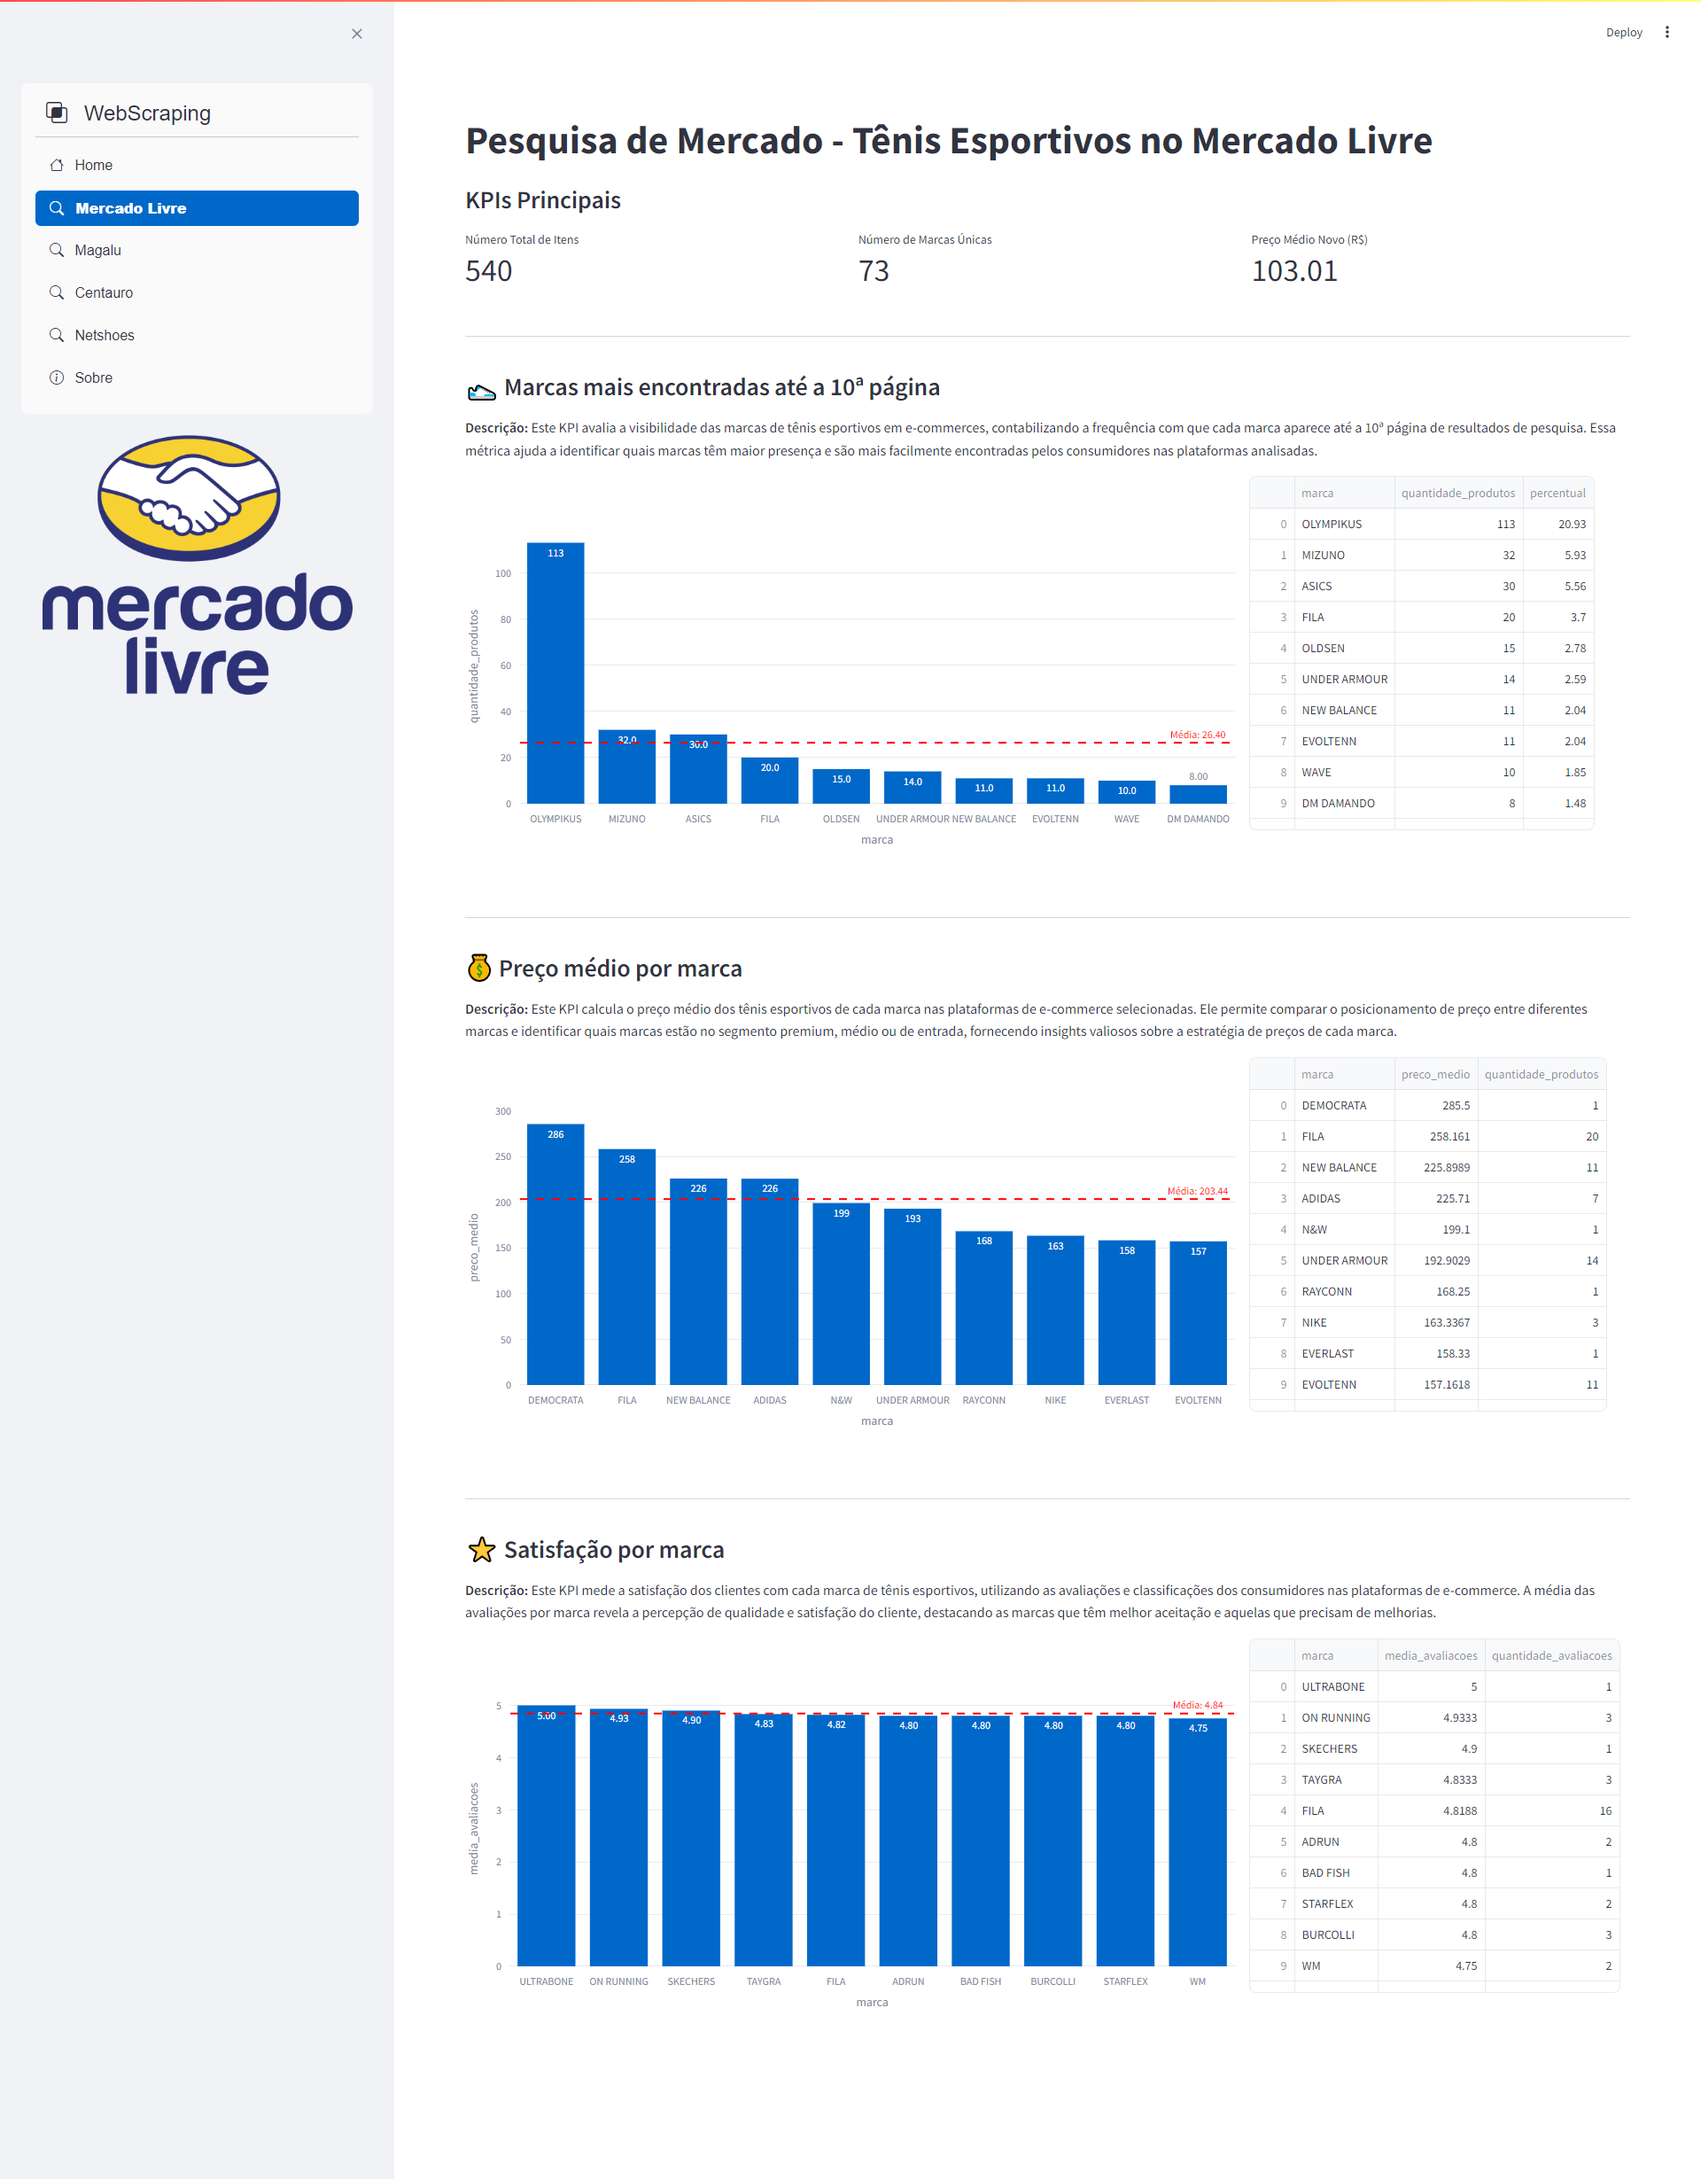
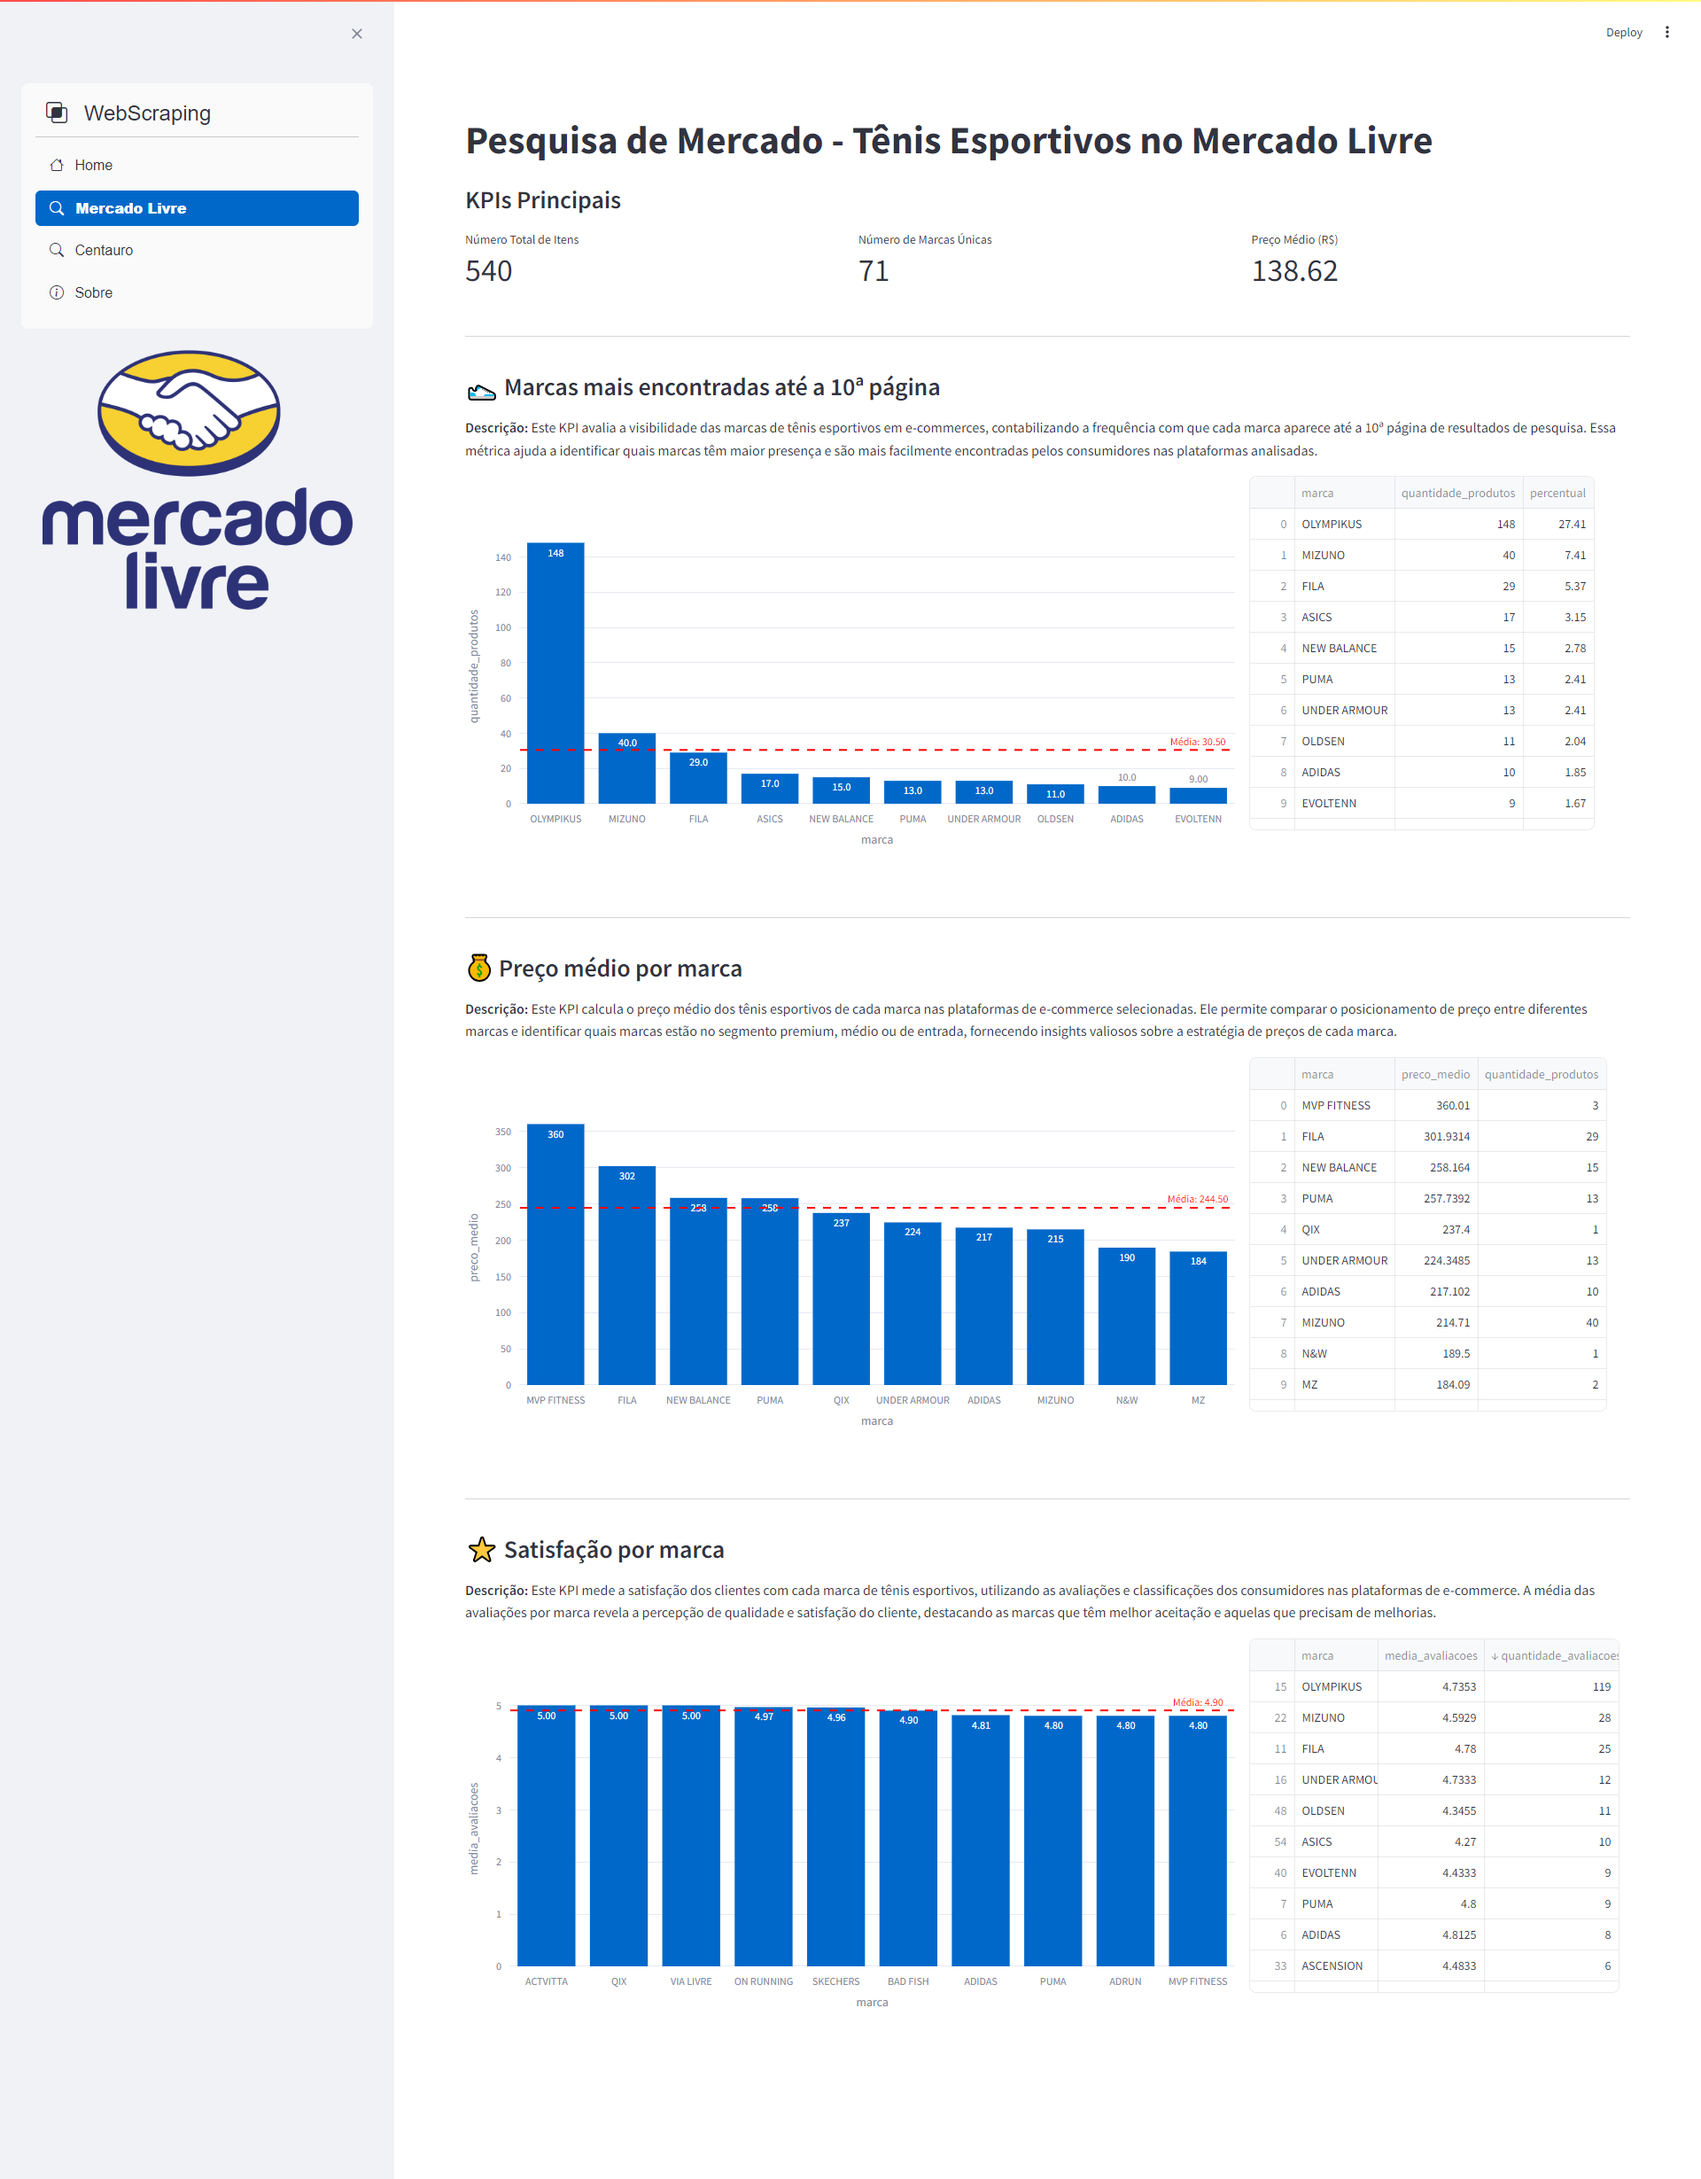
Altered README.MD: New Dashboard link

diff --git a/src/dashboard/app.py b/src/dashboard/app.py
@@ -152,7 +152,7 @@ class Dashboard:
 
         # KPI 3: Preço médio novo (em reais)
         average_new_price = df['new_price_reais'].mean()
-        col3.metric(label="Preço Médio Novo (R$)", value=f"{average_new_price:.2f}")
+        col3.metric(label="Preço Médio (R$)", value=f"{average_new_price:.2f}")
 
         st.divider()
 
@@ -343,7 +343,7 @@ class Dashboard:
 
         # KPI 3: Preço médio novo (em reais)
         average_new_price = df['new_price'].mean()
-        col3.metric(label="Preço Médio Novo (R$)", value=f"{average_new_price:.2f}")
+        col3.metric(label="Preço Médio (R$)", value=f"{average_new_price:.2f}")
 
         st.divider()
 

diff --git a/README.md b/README.md
@@ -42,6 +42,8 @@ Desenvolvimento de um **dashboard interativo** usando **Streamlit** para consumi
 ![arquitetura](/pics/arquitetura.png)
 
 ### Dashboard
+- Dashboard Streamlit Link: [Monitoramento de Preços e Produtos E-commerce](https://scrapymonitoramentoprecotenis.streamlit.app/)
+
 ![dashboard](/pics/mercado_livre.png)
 
 ## Estrutura de Diretórios
